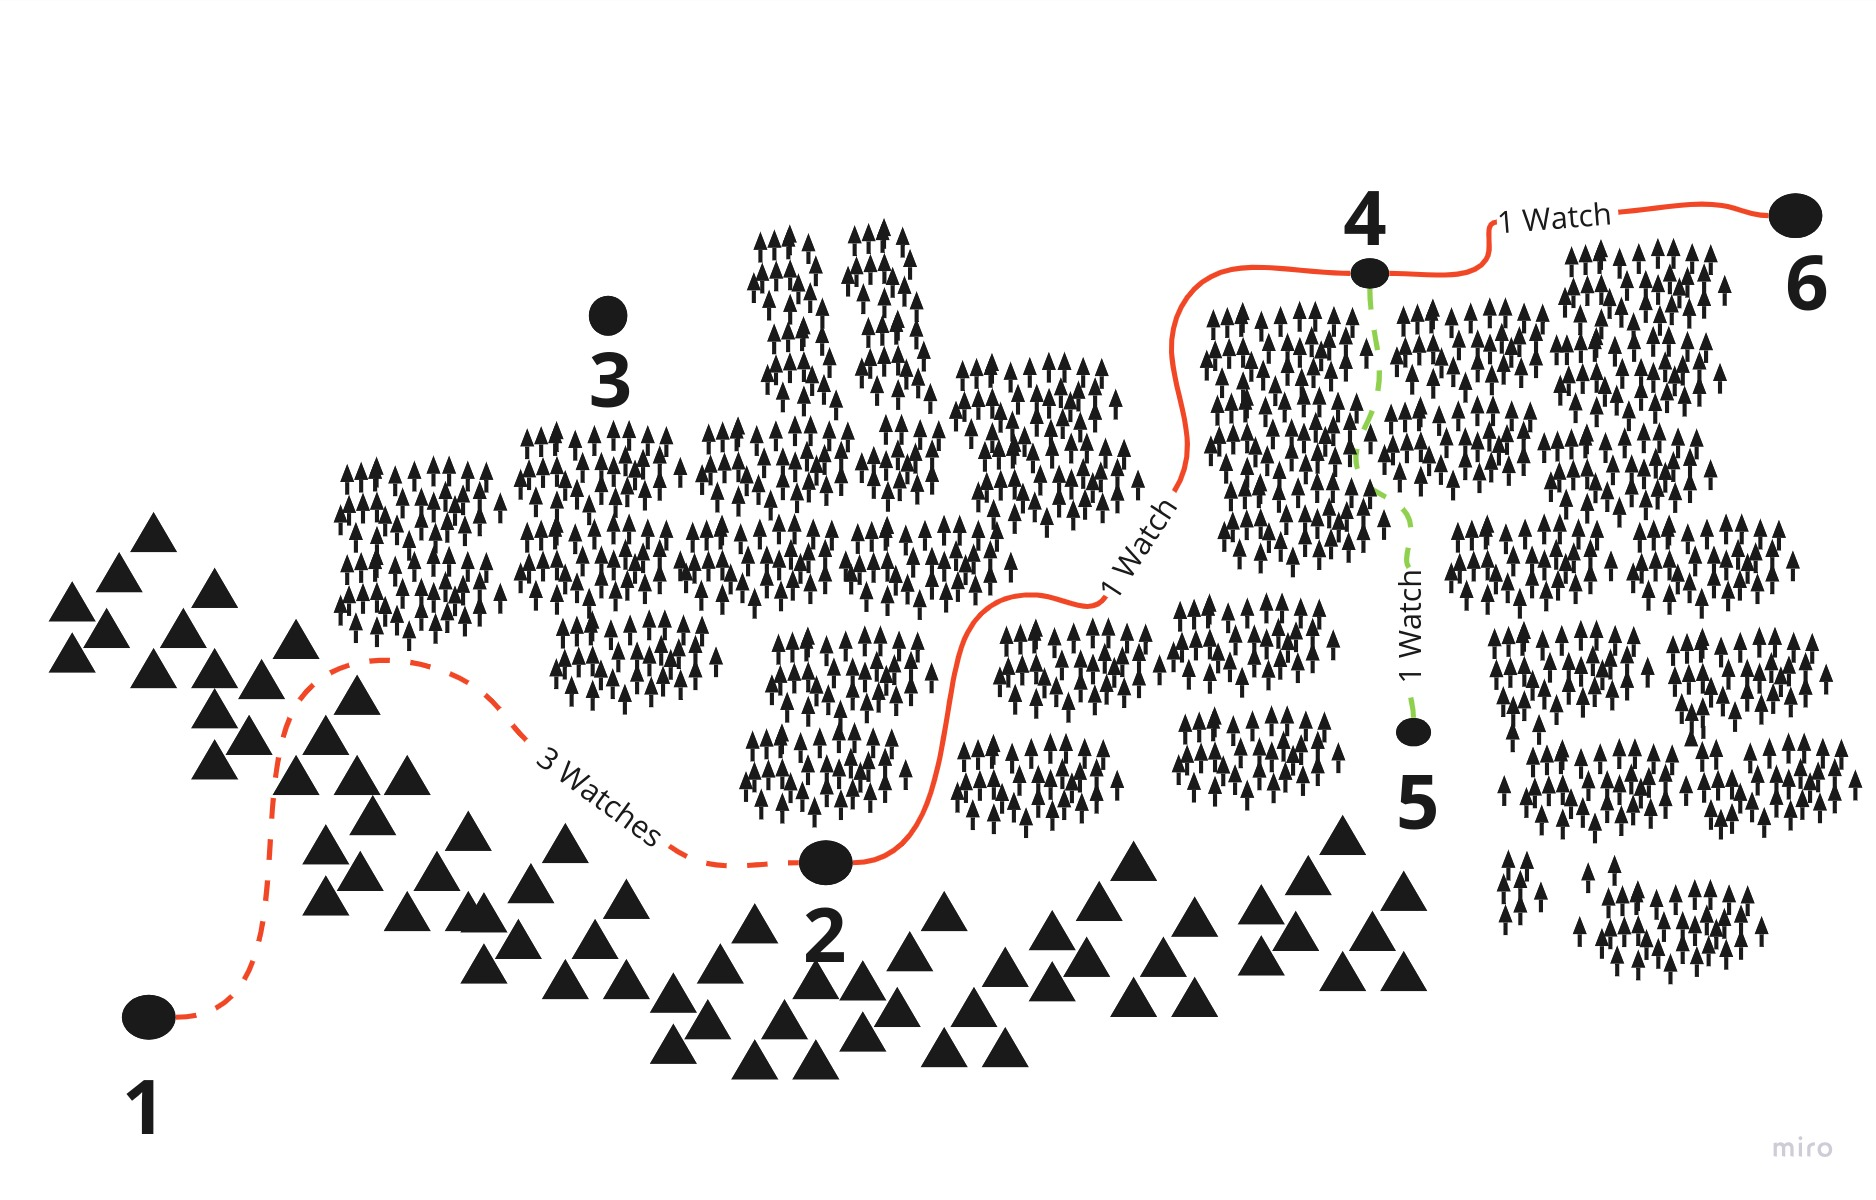
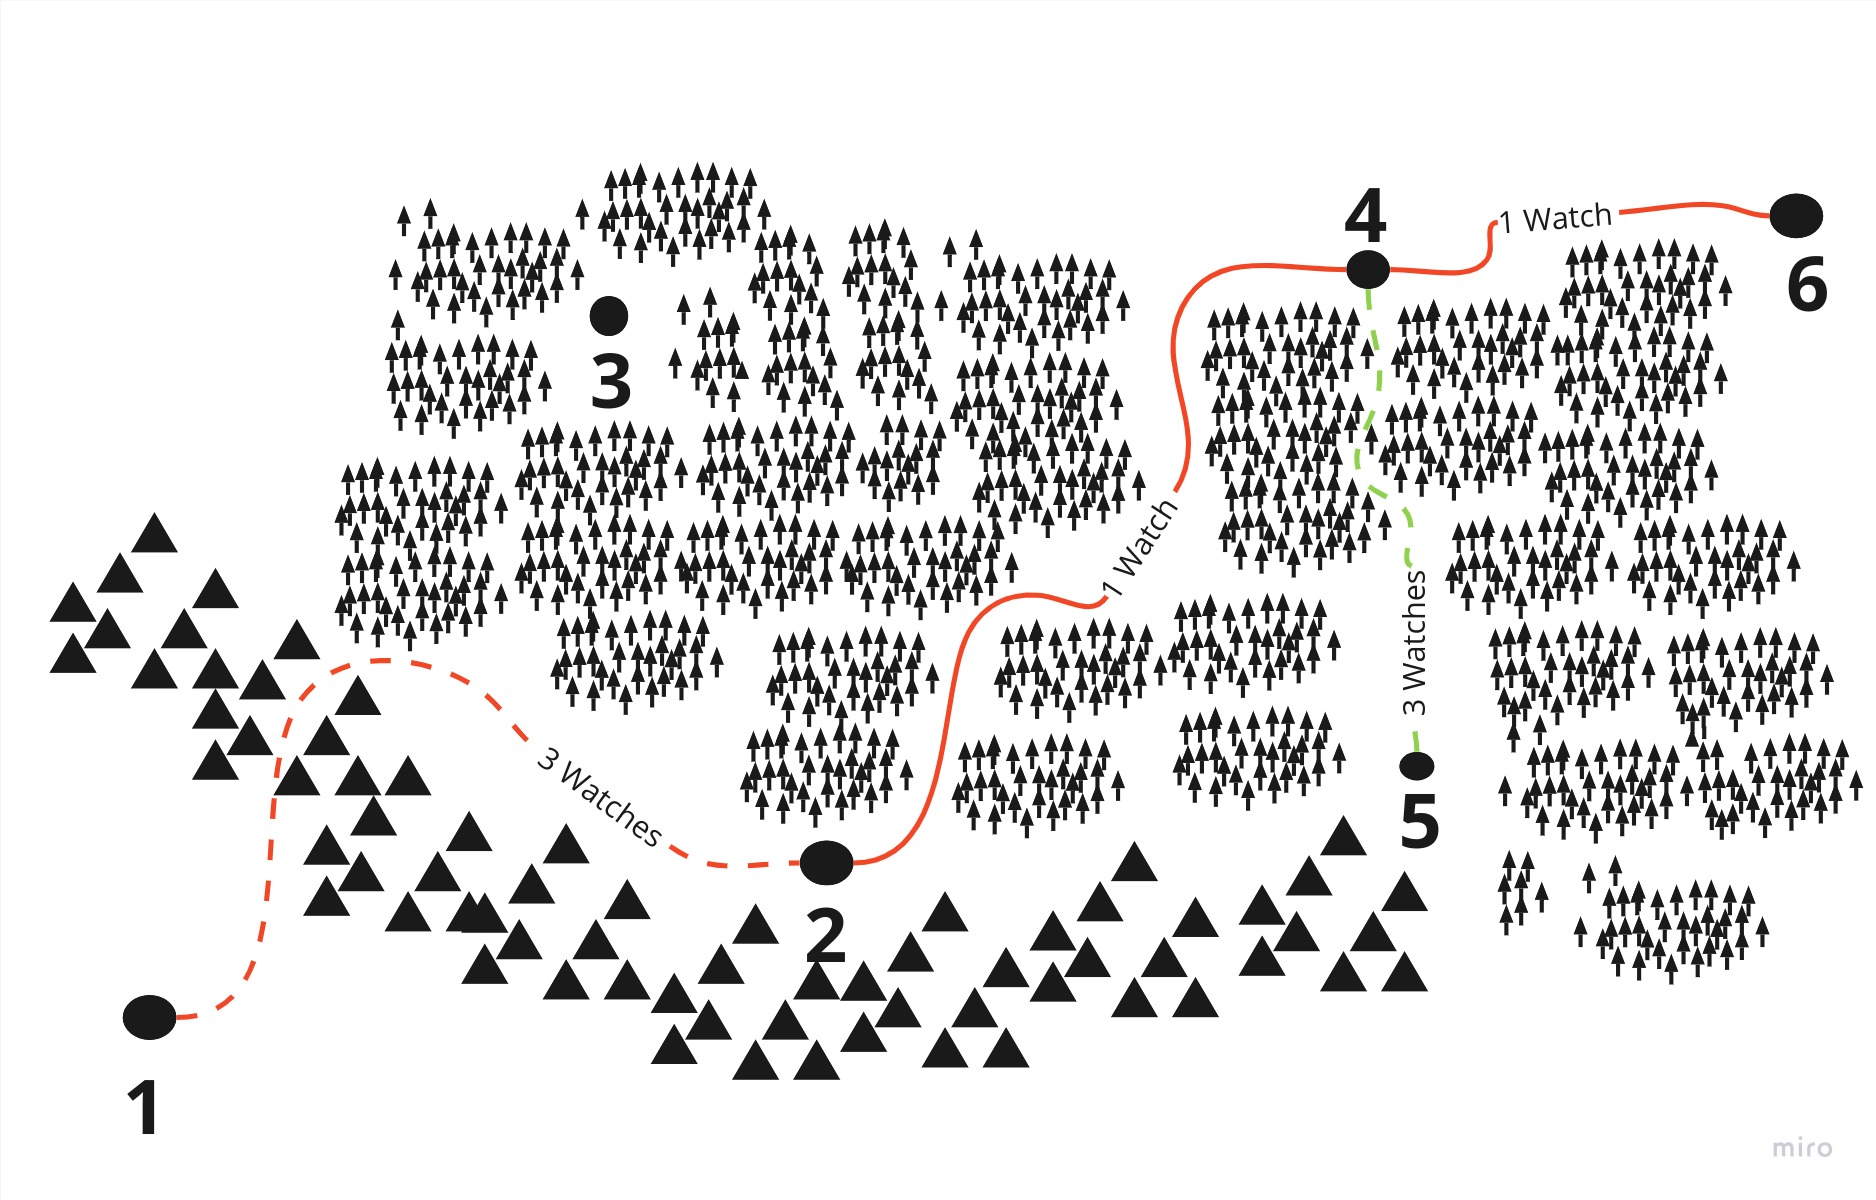
updated difficulty (double = +1)

diff --git a/wip/2e/wilderness-exploration.md b/wip/2e/wilderness-exploration.md
@@ -75,9 +75,9 @@ search_exclude: true
 |                               |                       |                     |                          |                                                                                                       |
 | ----------------------------- | --------------------- | ------------------- | ------------------------ | ----------------------------------------------------------------------------------------------------- |
 | **Terrain**                   | **Travel Difficulty** | **Travel Duration** | **Odds of Getting Lost** | **Examples**                                                                                          |
-| **Roads, grasslands, plains** | **Easy**              | _Normal_            | None                     | _Smooth roads, safe areas for rest, fellow travellers_                                                |
-| **Forests, mountains, hills** | **Tough**             | _Doubled_           | 2-in-6                   | _Wild animals, flooding, broken equipment, falling rocks, unsafe shelters, hunter's traps_            |
-| **Deserts, jungle, swamp**    | **Perilous**          | _Tripled_           | 4-in-6                   | _Quicksand, sucking mud, choking vines, unclean water, poisonous plants and animals, poor navigation_ |
+| **Roads, grasslands, plains** | **Easy**              | _Normal_           | None                     | _Smooth roads, safe areas for rest, fellow travellers_                                                |
+| **Forests, mountains, hills** | **Tough**             | +1 Watch           | 2-in-6                   | _Wild animals, flooding, broken equipment, falling rocks, unsafe shelters, hunter's traps_            |
+| **Deserts, jungle, swamp**    | **Perilous**          | +2 Watches         | 4-in-6                   | _Quicksand, sucking mud, choking vines, unclean water, poisonous plants and animals, poor navigation_ |
 
 ### Weather Difficulty
 
